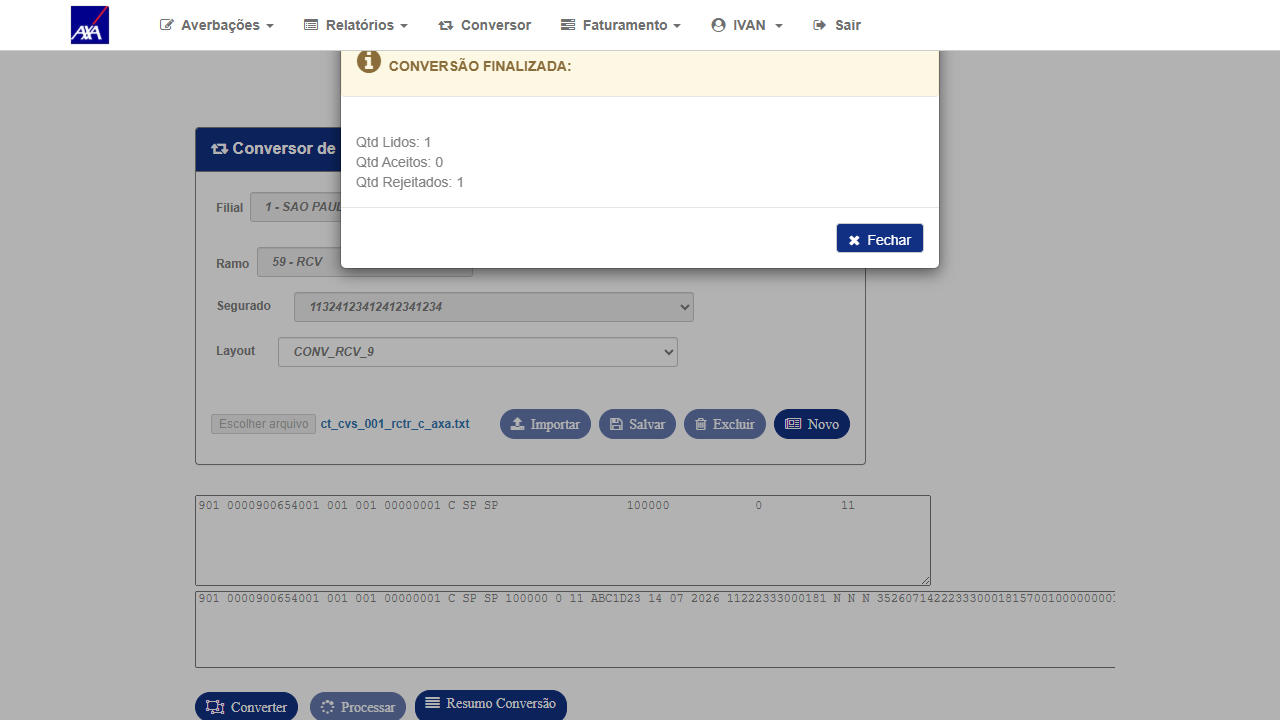
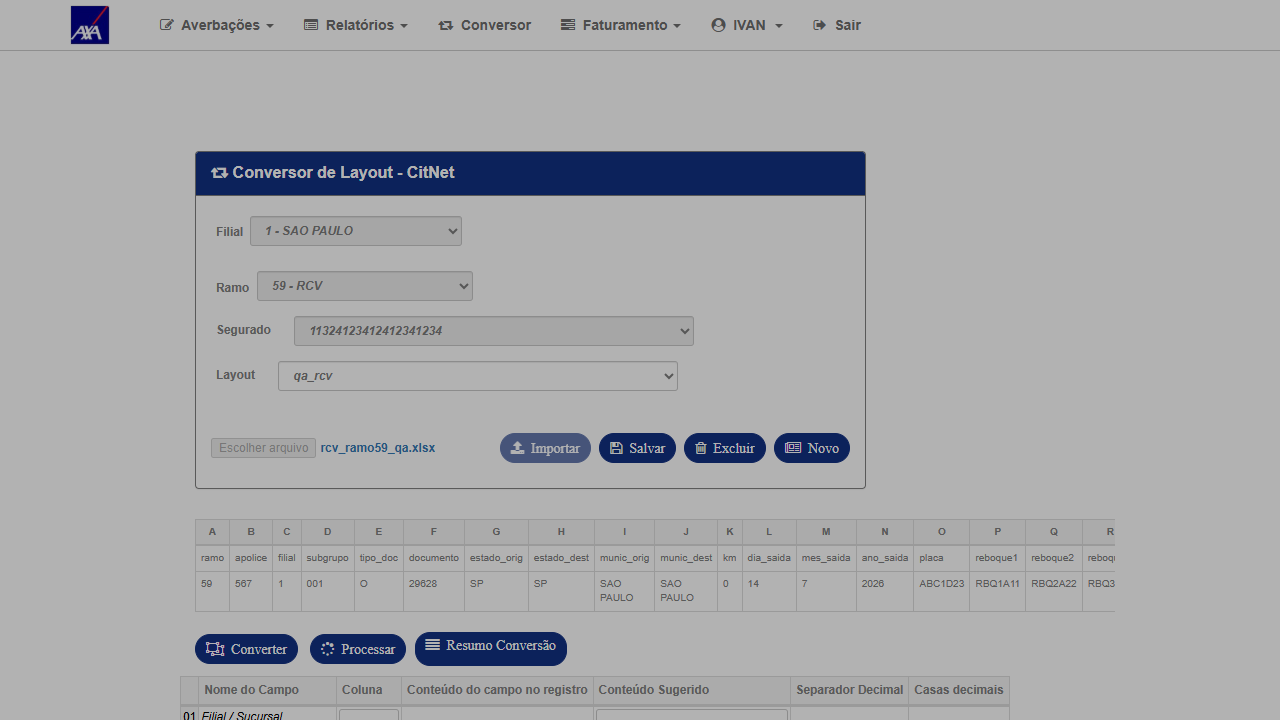
fix(7752): substitui evidências CT-005 por screenshots que exercitam o fix
Converter aceitos:1 com layout qa_rcv → Processar exercita o try/catch corrigido
(lidos:1 aceitos:0 rejeitados:1, sem erro genérico). Evidências anteriores usavam
CONV_RCV_9 que rejeitava no Converter, deixando Processar com fila vazia.

diff --git a/docs/sprint-10-citweb/bug-7752/index.html b/docs/sprint-10-citweb/bug-7752/index.html
@@ -391,11 +391,11 @@ body{background:var(--bg);color:var(--text);font-family:'Segoe UI',system-ui,san
           <h4>Evidências — 14/07/2026</h4>
           <div style="display:flex;gap:10px;flex-wrap:wrap;margin-top:8px">
             <div>
-              <p style="font-size:11px;color:var(--muted);margin-bottom:4px">EV3 — Converter: CONVERSÃO FINALIZADA Lidos:1 Aceitos:0 Rejeitados:1 — Ramo 59 RCV</p>
+              <p style="font-size:11px;color:var(--muted);margin-bottom:4px">EV3 — Converter: CONVERSÃO FINALIZADA Lidos:1 <strong style="color:#2ea043">Aceitos:1</strong> Rejeitados:0 — Ramo 59 RCV (layout qa_rcv)</p>
               <a href="evidencias/ct005-ev3-converter.png" target="_blank"><img src="evidencias/ct005-ev3-converter.png" style="max-width:440px;width:100%;border:1px solid var(--border);border-radius:4px" alt="CT-CVS-005 EV3 Converter RCV"></a>
             </div>
             <div>
-              <p style="font-size:11px;color:var(--muted);margin-bottom:4px">EV4 — Processar: "Não existem dados para serem Processados na data de 14/07/2026"</p>
+              <p style="font-size:11px;color:var(--muted);margin-bottom:4px">EV4 — Processar: PROCESSAMENTO FINALIZADO Lidos:1 Aceitos:0 Rejeitados:1 — fix exercitado, sem erro genérico</p>
               <a href="evidencias/ct005-ev4-processar.png" target="_blank"><img src="evidencias/ct005-ev4-processar.png" style="max-width:440px;width:100%;border:1px solid var(--border);border-radius:4px" alt="CT-CVS-005 EV4 Processar RCV"></a>
             </div>
           </div>
